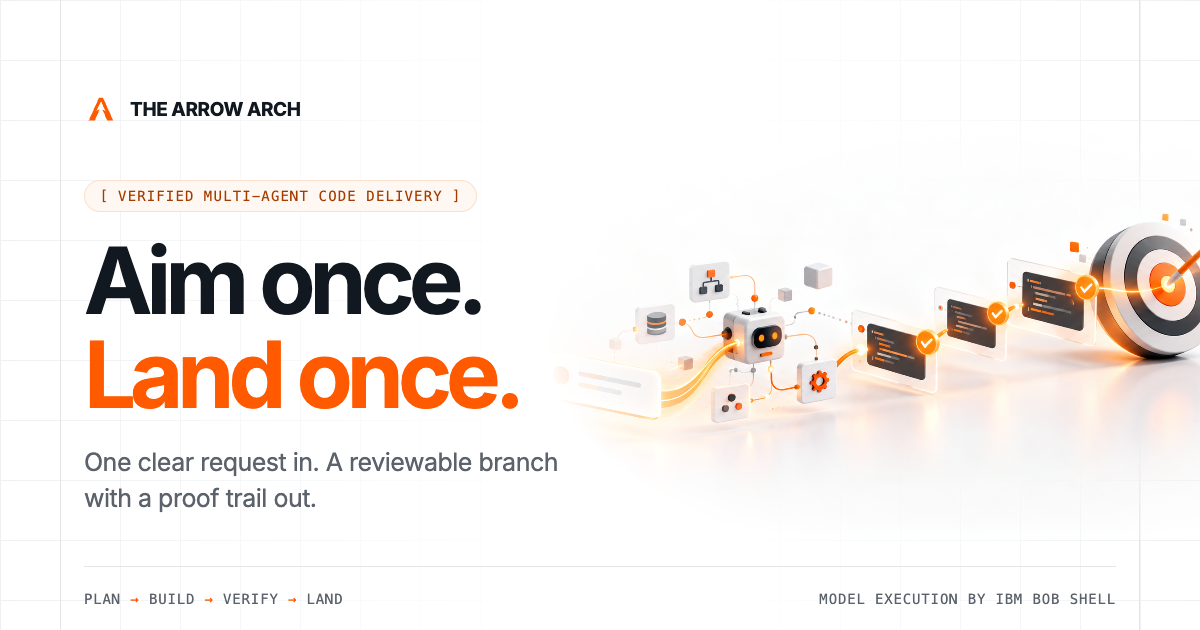
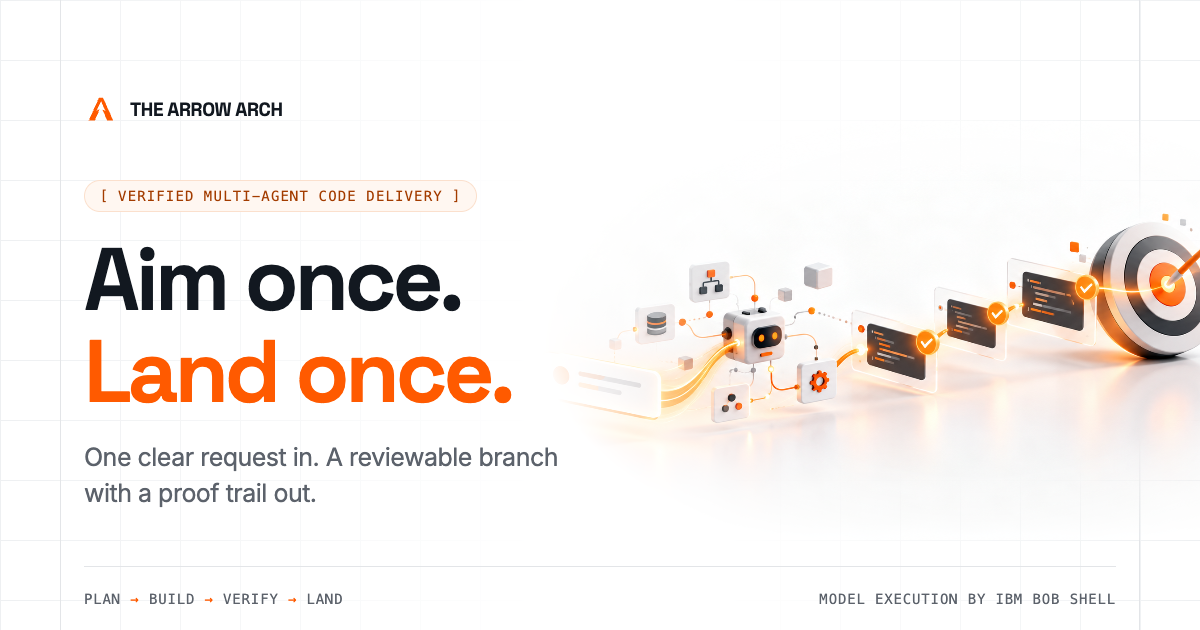
Switch headings to Space Grotesk and scale display sizes down

diff --git a/components/sections.css b/components/sections.css
@@ -53,9 +53,9 @@
 }
 .band-head h2,
 .faq-intro h2 {
-  font-size: clamp(36px, 4.1vw, 56px);
-  line-height: 1.08;
-  letter-spacing: -0.058em;
+  font-size: clamp(30px, 3.2vw, 42px);
+  line-height: 1.1;
+  letter-spacing: -0.04em;
   margin: 20px 0 16px;
 }
 .band-head p {
@@ -212,7 +212,7 @@
 }
 .problem-cell h3 {
   font-size: 18px;
-  letter-spacing: -0.04em;
+  letter-spacing: -0.025em;
   line-height: 1.25;
   margin-bottom: 8px;
 }
@@ -326,7 +326,7 @@
 }
 .crew-role h3 {
   font-size: 16px;
-  letter-spacing: -0.04em;
+  letter-spacing: -0.025em;
   margin-bottom: 7px;
 }
 .crew-role p {
@@ -461,7 +461,7 @@
 }
 .memory-notes h3 {
   font-size: 18px;
-  letter-spacing: -0.04em;
+  letter-spacing: -0.025em;
   margin: 8px 0 8px;
 }
 .memory-notes p {
@@ -492,7 +492,7 @@
 }
 .proof-point h3 {
   font-size: 16px;
-  letter-spacing: -0.04em;
+  letter-spacing: -0.025em;
   margin: 22px 0 6px;
 }
 .proof-point p {
@@ -665,7 +665,7 @@
 }
 .faq-intro h2 {
   margin-top: 22px;
-  font-size: clamp(34px, 3.5vw, 48px);
+  font-size: clamp(28px, 2.8vw, 38px);
 }
 .faq-intro p {
   font-size: 15px;
@@ -826,9 +826,9 @@
   background: linear-gradient(90deg, transparent, var(--orange), transparent);
 }
 .cta-panel h2 {
-  font-size: clamp(44px, 5.6vw, 80px);
-  line-height: 1.05;
-  letter-spacing: -0.064em;
+  font-size: clamp(36px, 4.3vw, 58px);
+  line-height: 1.08;
+  letter-spacing: -0.045em;
   margin: 22px 0 16px;
 }
 .cta-panel > p {
@@ -977,7 +977,7 @@
   }
   .band-head h2,
   .faq-intro h2 {
-    font-size: clamp(32px, 8.4vw, 44px);
+    font-size: clamp(28px, 7.4vw, 36px);
   }
   .band-head p {
     font-size: 14px;
@@ -1260,7 +1260,7 @@
     padding: 60px 18px 64px;
   }
   .cta-panel h2 {
-    font-size: clamp(40px, 11vw, 60px);
+    font-size: clamp(34px, 9.5vw, 46px);
   }
   .cta-panel > p {
     font-size: 14px;

diff --git a/components/hero.css b/components/hero.css
@@ -136,9 +136,9 @@
   color: #7b7e83;
 }
 .launch-copy h1 {
-  font-size: clamp(54px, 6.1vw, 88px);
+  font-size: clamp(44px, 4.6vw, 64px);
   font-weight: 650;
-  letter-spacing: -0.064em;
+  letter-spacing: -0.045em;
   line-height: 1.13;
   margin: 19px 0 14px;
 }
@@ -409,9 +409,9 @@
   font-size: 9px;
 }
 .launch-proof h2 {
-  font-size: 23px;
+  font-size: 22px;
   line-height: 1.22;
-  letter-spacing: -0.045em;
+  letter-spacing: -0.035em;
   margin: 17px 0 10px;
   font-weight: 600;
   max-width: 230px;
@@ -597,7 +597,7 @@
     padding: 22px 19px;
   }
   .launch-copy h1 {
-    font-size: 70px;
+    font-size: 54px;
   }
   .launch-stages button {
     padding: 0 14px;
@@ -675,9 +675,9 @@
     height: 12px;
   }
   .launch-copy h1 {
-    font-size: clamp(41px, 7.5vw, 61px);
+    font-size: clamp(38px, 6.6vw, 50px);
     margin: 18px 0 13px;
-    letter-spacing: -0.065em;
+    letter-spacing: -0.045em;
   }
   .launch-description {
     font-size: 14px;
@@ -808,7 +808,7 @@
     padding-bottom: 3px;
   }
   .launch-copy h1 {
-    font-size: clamp(57px, 14.8vw, 76px);
+    font-size: clamp(42px, 11.5vw, 54px);
     line-height: 1.02;
     margin: 20px 0 16px;
   }
@@ -953,7 +953,7 @@
     padding-bottom: 25px;
   }
   .launch-copy h1 {
-    font-size: clamp(54px, 5.7vw, 82px);
+    font-size: clamp(44px, 4.6vw, 64px);
     margin-top: 15px;
     margin-bottom: 10px;
   }

diff --git a/app/globals.css b/app/globals.css
@@ -1,4 +1,5 @@
 :root {
+  --display: "Space Grotesk Variable", "Inter Variable", Arial, sans-serif;
   --orange: #ff5a00;
   --orange-dark: #bd4100;
   --ink: #121820;
@@ -51,11 +52,15 @@ p {
 h1,
 h2,
 h3 {
+  font-family: var(--display);
   font-weight: 650;
-  letter-spacing: -0.055em;
+  letter-spacing: -0.04em;
+}
+h3 {
+  letter-spacing: -0.025em;
 }
 h2 {
-  font-size: clamp(40px, 4.3vw, 66px);
+  font-size: clamp(32px, 3.3vw, 48px);
   line-height: 1.07;
 }
 p {
@@ -167,6 +172,7 @@ img {
   gap: 38px;
 }
 .brand {
+  font-family: var(--display);
   display: inline-flex;
   gap: 10px;
   align-items: center;
@@ -1086,7 +1092,7 @@ img {
   max-width: 760px;
 }
 .demo-intro h1 {
-  font-size: clamp(48px, 6vw, 84px);
+  font-size: clamp(40px, 4.6vw, 62px);
   line-height: 1.03;
   margin: 23px 0;
   letter-spacing: -0.065em;

diff --git a/app/layout.tsx b/app/layout.tsx
@@ -1,5 +1,6 @@
 import type { Metadata, Viewport } from "next";
 import "@fontsource-variable/inter";
+import "@fontsource-variable/space-grotesk";
 import "./globals.css";
 import {
   repoUrl,
